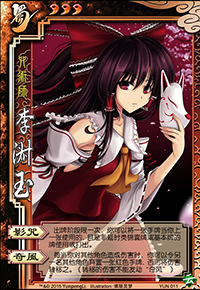
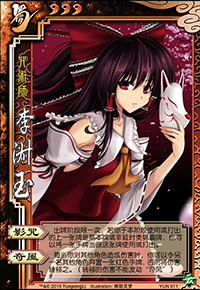
fix lishuyu's yingzhou completely
修正影咒的触发机制，使触发更加准确而高效。
修改了影咒的描述。

Changed region(s): [[0.24, 0.7759, 0.93, 0.869]]

diff --git a/src/package/yun.cpp b/src/package/yun.cpp
@@ -441,7 +441,7 @@ public:
     }
 
     bool isEnabledAtPlay(const Player *player) const {
-        return !player->hasFlag("diaolueUsed");
+        return !player->hasUsed("diaolueCard");
     }
 
     const Card *viewAs(const Card *originalCard) const {
@@ -465,8 +465,8 @@ public:
     bool trigger(TriggerEvent event, Room *room, ServerPlayer *player, QVariant &data) const {
         if(event == CardUsed && player->hasSkill(objectName())) {
             const Card* card = data.value<CardUseStruct>().card;
-            if(card->objectName() == "lure_tiger" && card->getSkillName() == objectName()){
-                room->setPlayerFlag(player, "diaolueUsed");
+            if(card->getSkillName() == objectName()){
+                player->addHistory("diaolueCard");
             }
         }else if(event == TrickEffect) {
             CardEffectStruct effect = data.value<CardEffectStruct>();
@@ -481,9 +481,9 @@ public:
                     p->loseMark("@diaohulishan");
                 }
             }
-            if(data.value<PhaseChangeStruct>().to == Player::Play) {
-                room->setPlayerFlag(player, "-diaolueUsed");
-            }
+            //if(data.value<PhaseChangeStruct>().to == Player::Play) {
+            //    room->setPlayerFlag(player, "-diaolueUsed");
+            //}
         }
         return false;
     }
@@ -570,7 +570,7 @@ public:
         response_or_use = true;
     }
     bool isEnabledAtPlay(const Player *player) const {
-        return player->hasFlag("yingzhouCanInvoke") and !(player->hasFlag("yingzhouInvoked"));
+        return player->hasFlag("yingzhouCanInvoke") and !(player->hasUsed("yingzhouCard"));
     }
     const Card *viewAs(const Card *originalCard) const {
         Card* acard = Sanguosha->cloneCard(Self->property("yingzhouCard").toString(), originalCard->getSuit(), originalCard->getNumber());
@@ -579,13 +579,10 @@ public:
         return acard;
     }
     bool isEnabledAtResponse(const Player *player, const QString &pattern) const {
-        bool askBasicCard = pattern.contains("slash") || pattern.contains("jink") || pattern.contains("peach") || pattern.contains("analeptic");
-        bool askNullFication = pattern.contains("nullification");
-        return !(player->hasFlag("yingzhouInvoked")) && ((askNullFication && player->hasFlag("yingzhouNullFication")) || (askBasicCard && player->hasFlag("yingzhouBasicCard")));
-        //return !(player->hasFlag("yingzhouInvoked")) && (player->hasFlag("yingzhouNullFication") || player->hasFlag("yingzhouBasicCard"));
+        return pattern.contains(Self->property("yingzhouCard").toString().toLower()) && !(player->hasUsed("yingzhouCard"));
     }
     bool isEnabledAtNullification(const ServerPlayer *player) const {
-        return !(player->hasFlag("yingzhouInvoked")) && player->hasFlag("yingzhouNullFication");
+        return !(player->hasUsed("yingzhouCard")) && player->property("yingzhouCard").toString() == "Nullification";
     }
 };
 
@@ -598,12 +595,8 @@ public:
     }
     bool trigger(TriggerEvent triggerEvent, Room *room, ServerPlayer *player, QVariant &data) const {
         if(triggerEvent == EventPhaseChanging && data.value<PhaseChangeStruct>().to == Player::Play) {
-            //for liaohua
-            room->setPlayerFlag(player, "-yingzhouInvoked");
             room->setPlayerFlag(player, "-yingzhouCanInvoke");
-            room->setPlayerFlag(player, "-yingzhouNullFication");
-            room->setPlayerFlag(player, "-yingzhouBasicCard");
-        }else if(player->getPhase() == Player::Play && !(player->hasFlag("yingzhouInvoked"))) {
+        }else if(player->getPhase() == Player::Play && !(player->hasUsed("yingzhouCard"))) {
             const Card *card = NULL;
             if(triggerEvent == CardResponded) {
                 card = data.value<CardResponseStruct>().m_card;
@@ -612,22 +605,12 @@ public:
             }
             if(card) {
                 if(card->getSkillName() == objectName()) {
-                    room->setPlayerFlag(player, "yingzhouInvoked");
+                    room->addPlayerHistory(player, "yingzhouCard");
+                    room->setPlayerFlag(player, "-yingzhouCanInvoke");
                 }else {
                     if(card->isNDTrick() || card->isKindOf("BasicCard")) {
                         room->setPlayerFlag(player, "yingzhouCanInvoke");
                         room->setPlayerProperty(player, "yingzhouCard", QVariant(card->getClassName()));
-
-                        if(card->objectName() == "nullification") {
-                            room->setPlayerFlag(player, "yingzhouNullFication");
-                            room->setPlayerFlag(player, "-yingzhouBasicCard");
-                        } else if(card->isKindOf("BasicCard")) {
-                            room->setPlayerFlag(player, "yingzhouBasicCard");
-                            room->setPlayerFlag(player, "-yingzhouNullFication");
-                        } else {
-                            room->setPlayerFlag(player, "-yingzhouBasicCard");
-                            room->setPlayerFlag(player, "-yingzhouNullFication");
-                        }
                     }else if(card->isKindOf("EquipCard") || card->isKindOf("TrickCard")) {
                         room->setPlayerFlag(player, "-yingzhouCanInvoke");
                     }
@@ -947,7 +930,7 @@ public:
     bool trigger(TriggerEvent triggerEvent, Room *room, ServerPlayer *player, QVariant &) const {
         bool existFemale = false;
         foreach(ServerPlayer *p, room->getOtherPlayers(player)) {
-            //EX李云鹏的“蓝颜”实现不佳，回合开始时才修改性别，与此技能的时机冲突
+            //EX李云鹏的“蓝颜”，游戏开始时才修改性别，与此技能的时机冲突
             //EX李云鹏应该视为女性角色，这里做出弥补
             if (p->isFemale() || p->hasSkill("lanyan")) {
                 existFemale = true;
